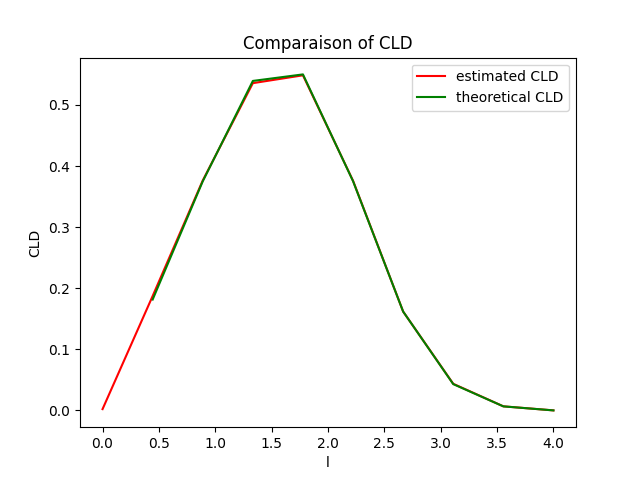
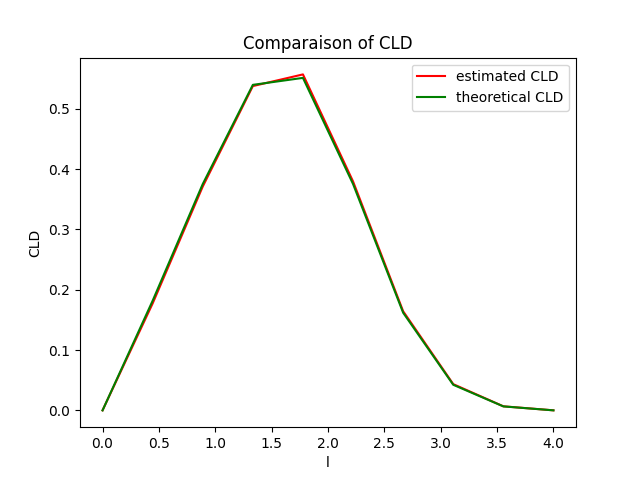
analyze dirac and eta values

diff --git a/analyze.py b/analyze.py
@@ -3,7 +3,7 @@
 import matplotlib.pyplot as plt
 import numpy as np
 
-from direct_problem import solve_direct_problem_normal_psd, solve_direct_problem_normal_psd_discrete
+from direct_problem import solve_direct_problem_normal_psd, solve_direct_problem_normal_psd_discrete, solve_direct_problem_dirac_psd
 from inverse_problem import compute_discrete_tikhonov
 
 def analyze_direct_problem(num_mc, r_min,r_max,mean,sigma):
@@ -28,7 +28,7 @@ def analyze_direct_problem(num_mc, r_min,r_max,mean,sigma):
 
     #plot kernel k in fonction of l at fixed r
     r= mean
-    list_l = np.linspace(0,2*r,10)
+    list_l = np.linspace(0,4*r,10)
     plt.plot(list_l, [kernel_k.estimate(l,r) for l in list_l], color='r', label='estimated kernel with monte carlo')
     plt.plot(list_l, [kernel_k.theoretical(l,r) for l in list_l], color='g', label='theoretical kernel')
     plt.xlabel('l')
@@ -57,6 +57,84 @@ def analyze_direct_problem(num_mc, r_min,r_max,mean,sigma):
     plt.title('Comparaison of CLD')
     plt.legend()
     plt.savefig('Graphs/cld.png')
+    plt.clf()
+
+def analyze_direct_problem_dirac(num_mc, r):
+    theory_CLD, kernel_k_theory = solve_direct_problem_dirac_psd(num_mc, r, mode = 'theory')
+    estimated_CLD, kernel_k_estimated = solve_direct_problem_dirac_psd(num_mc, r, mode = 'estimated')
+
+    #plot kernel k
+    list_l = np.linspace(0,4*r,10)
+    plt.plot(list_l, [kernel_k_estimated.function(l,r) for l in list_l], color='r', label='estimated kernel with monte carlo')
+    plt.plot(list_l, [kernel_k_theory.function(l,r) for l in list_l], color='g', label='theoretical kernel')
+    plt.xlabel('l')
+    plt.ylabel('kernel k')
+    plt.title('Comparaison of kernels at fixed r')
+    plt.legend()
+    plt.savefig('Graphs/kernels_dirac.png')
+    plt.clf()
+
+    #plot cumulative CLD
+    list_l = np.linspace(0,2*r,10)
+    plt.plot(list_l, [estimated_CLD.cumulative_CLD(l) for l in list_l], color='r', label='estimated cumulative CLD')
+    plt.plot(list_l, [theory_CLD.cumulative_CLD(l) for l in list_l], color='g', label='theoretical cumulative CLD')
+    plt.xlabel('l')
+    plt.ylabel('cumulative CLD')
+    plt.title('Comparaison of cumulative CLD')
+    plt.legend()
+    plt.savefig('Graphs/cumulative_cld_dirac.png')
+    plt.clf()
+
+    #plot CLD
+    plt.plot(list_l, [estimated_CLD.CLD(l) for l in list_l], color='r', label='estimated CLD')
+    plt.plot(list_l, [theory_CLD.CLD(l) for l in list_l], color='g', label='theoretical CLD')
+    plt.xlabel('l')
+    plt.ylabel('CLD')
+    plt.title('Comparaison of CLD')
+    plt.legend()
+    plt.savefig('Graphs/cld_dirac.png')
+    plt.clf()
+
+def analyze_direct_problem_dirac_eta(num_mc, r):
+    etas = [0.5,1,2]
+
+    theory_cld_eta_05, kernel_k_theory_eta_05 = solve_direct_problem_dirac_psd(num_mc, r, mode = 'theory', eta = 0.5)
+    theory_cld_eta_1, kernel_k_theory_eta_1 = solve_direct_problem_dirac_psd(num_mc, r, mode = 'theory', eta = 1)
+    theory_cld_eta_2, kernel_k_theory_eta_2 = solve_direct_problem_dirac_psd(num_mc, r, mode = 'theory', eta = 2)
+
+    #plot kernel k
+    list_l = np.linspace(0,4*r,10)
+    plt.plot(list_l, [kernel_k_theory_eta_05.function(l,r) for l in list_l], color='r', label='eta = 0.5')
+    plt.plot(list_l, [kernel_k_theory_eta_1.function(l,r) for l in list_l], color='g', label='eta = 1')
+    plt.plot(list_l, [kernel_k_theory_eta_2.function(l,r) for l in list_l], color='b', label='eta = 2')
+    plt.xlabel('l')
+    plt.ylabel('kernel k')
+    plt.title('Comparaison of kernels at fixed r')
+    plt.legend()
+    plt.savefig('Graphs/kernels_dirac_eta.png')
+    plt.clf()
+
+    #plot cumulative CLD
+    list_l = np.linspace(0,4*r,10)
+    plt.plot(list_l, [theory_cld_eta_05.cumulative_CLD(l) for l in list_l], color='r', label='eta = 0.5')
+    plt.plot(list_l, [theory_cld_eta_1.cumulative_CLD(l) for l in list_l], color='g', label='eta = 1')
+    plt.plot(list_l, [theory_cld_eta_2.cumulative_CLD(l) for l in list_l], color='b', label='eta = 2')
+    plt.xlabel('l')
+    plt.ylabel('cumulative CLD')
+    plt.title('Comparaison of cumulative CLD')
+    plt.legend()
+    plt.savefig('Graphs/cumulative_cld_dirac_eta.png')
+    plt.clf()
+
+    #plot CLD
+    plt.plot(list_l, [theory_cld_eta_05.CLD(l) for l in list_l], color='r', label='eta = 0.5')
+    plt.plot(list_l, [theory_cld_eta_1.CLD(l) for l in list_l], color='g', label='eta = 1')
+    plt.plot(list_l, [theory_cld_eta_2.CLD(l) for l in list_l], color='b', label='eta = 2')
+    plt.xlabel('l')
+    plt.ylabel('CLD')
+    plt.title('Comparaison of CLD')
+    plt.legend()
+    plt.savefig('Graphs/cld_dirac_eta.png')
     plt.clf()
 
 def analyze_discrete_direct_problem(num_mc, r_min,r_max,mean,sigma):

diff --git a/direct_problem.py b/direct_problem.py
@@ -10,13 +10,22 @@ class kernel_K:
 
     Args:
     mc_n_ : number of monte carlo simulations to estimate the estimated kernel function
-    eta_ : parameter of the spheroid. eta = 1 for spheres
+    eta_ : parameter of the spheroid. eta = 1 for spheres. Estimate currently only works for spheres
+    mode : what method .function will use
+    possible modes : 'theory', 'estimated'
     """
 
-    def __init__(self, mc_n_, eta_ = 1):
+    def __init__(self, mc_n_, eta_ = 1, mode = 'theory'):
         self.mc_n = mc_n_
         self.mc_chord_lenghts = np.array([2*np.sqrt(1-random.random()**2) for _ in range(self.mc_n)]) #random(see README for precisions) cord length for a sphere of radius 1. multiply by r to get the cord length for a sphere of radius r
         self.eta = eta_
+
+        self.function = None
+        if mode == 'theory':
+            self.function = self.theoretical
+        elif mode == 'estimated':
+            self.function = self.estimate
+            
 
     def theoretical(self, l, r):
         if self.eta == 1: #spheres, we have a closed form solution
@@ -64,6 +73,10 @@ class kernel_K:
             kernel_matrix=np.sum(is_success, axis=1)/self.mc_n
         return kernel_matrix
 
+
+
+
+
 class PSD_to_CLD:
     """
     Takes in a normalized PSD and outputs a CLD
@@ -81,6 +94,8 @@ class PSD_to_CLD:
 
     def cumulative_CLD(self,l):
         """Normalized cumulative CLD (Q bar)"""
+        if self.r_min == self.r_max : #Dirac, no need to integrate
+            return self.kernel_k(l,self.r_min)
         return integrate.quad(lambda r: self.psd(r) * self.kernel_k(l,r), self.r_min, self.r_max, epsabs=1e-4, epsrel=1e-4)[0]
         
     def CLD(self,l, h=0.01):
@@ -152,3 +167,17 @@ def solve_direct_problem_normal_psd_discrete(num_mc, r_min,r_max,mean,sigma):
     PSD_to_CLD_with_k_theoretical = PSD_to_CLD_discrete(normalized_discrete_psd,
                                                kernel_k.compute_kernel_matrix(r_min,r_max, theortical_computation=True))
     return normalized_discrete_psd, kernel_k, PSD_to_CLD_with_k_estimated, PSD_to_CLD_with_k_theoretical
+
+def solve_direct_problem_dirac_psd(num_mc, r, mode = 'theory', eta = 1):
+    """
+    Solve the direct problem with a dirac PSD
+
+    Args:
+    num_mc : number of monte carlo simulations to estimate the estimated kernel function
+    r : value of the dirac PSD
+    mode : what method is used
+    """
+    kernel_k =kernel_K(num_mc, eta_= eta, mode = mode)
+    #Creates the CLDs
+    CLDs = PSD_to_CLD(r,r,r,kernel_k.function)
+    return CLDs, kernel_k

diff --git a/main.py b/main.py
@@ -1,7 +1,7 @@
 import argparse
 
 from global_constants import NUM_MC, R_MIN, R_MAX, MEAN, SIGMA
-from analyze import analyze_direct_problem, analyze_discrete_inverse_problem, analyze_discrete_direct_problem
+from analyze import analyze_direct_problem, analyze_direct_problem_dirac, analyze_direct_problem_dirac_eta, analyze_discrete_inverse_problem, analyze_discrete_direct_problem
 
 def main() :
     """Compute either the direct or inverse problem"""

diff --git a/global_constants.py b/global_constants.py
@@ -1,7 +1,7 @@
 """Define physical constants that will be used in the program"""
 
 NUM_MC = 10000 #number of monte carlo simulations
-R_MIN = 0.0001 # minimum radius of the paticules in the reactor
+R_MIN = 0.1 # minimum radius of the paticules in the reactor
 R_MAX = 2 #maximum radius of the particules in the reactor
 MEAN = 1 #mean of the PSD
 SIGMA = 0.3 #standard deviation of the PSD
